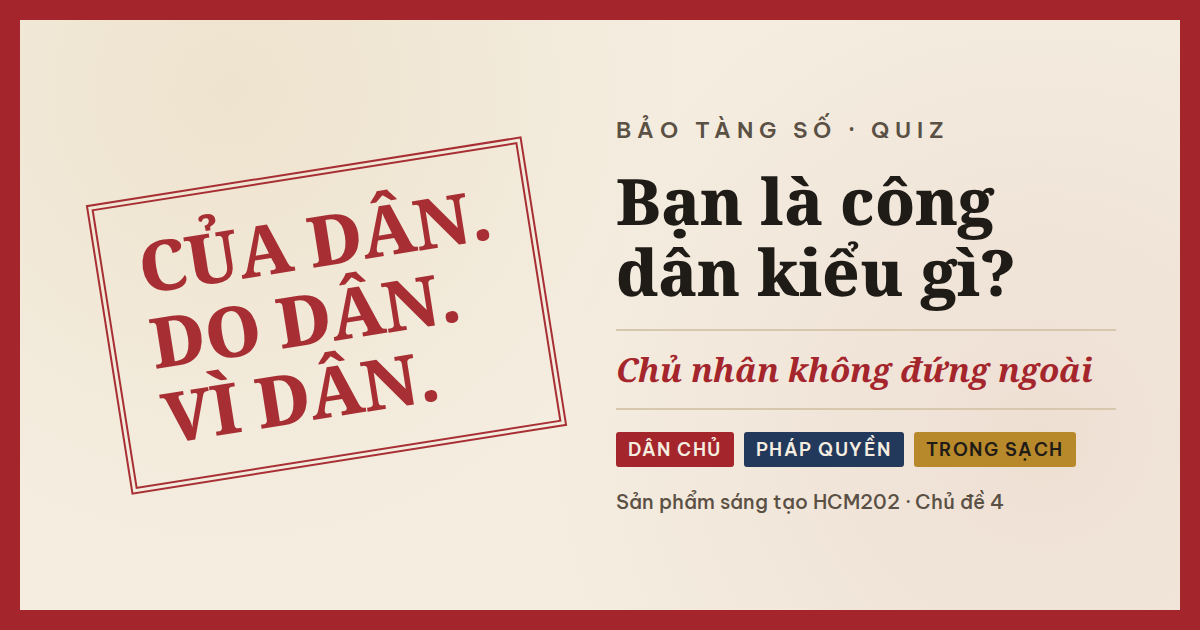
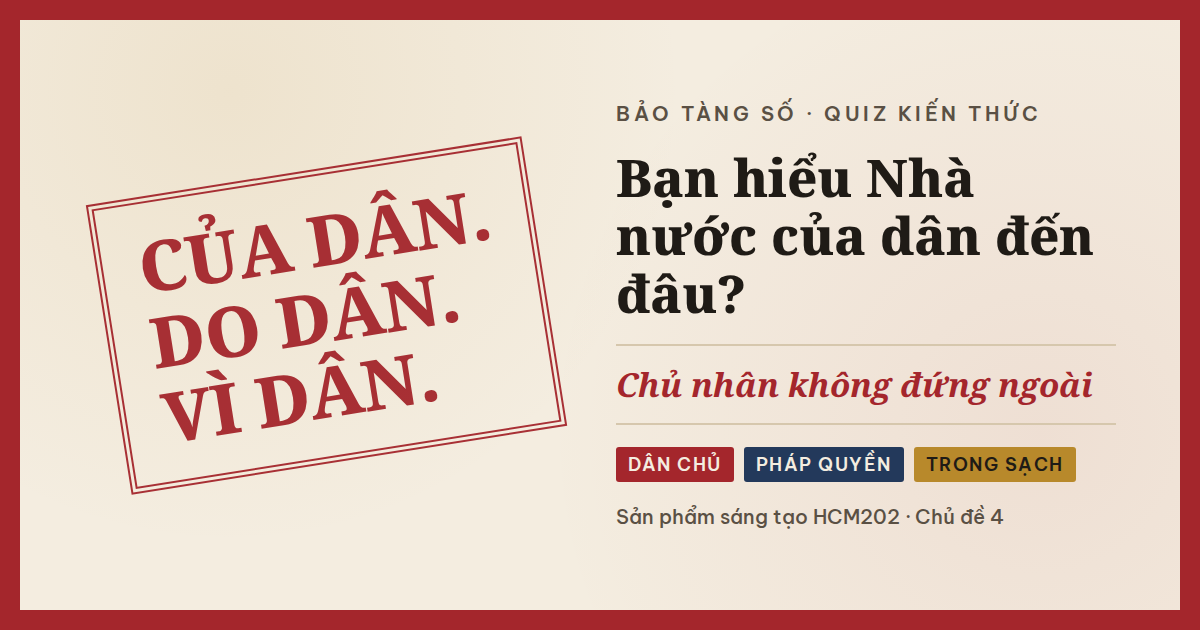
Cập nhật mô tả và ảnh chia sẻ cho quiz kiến thức
Claude-Session: https://claude.ai/code/session_01PMQa1LY6rFj1vgqhuZFxqY

Changed region(s): [[0.4933, 0.1508, 0.925, 0.8444]]

diff --git a/San-pham-sang-tao/web/index.html b/San-pham-sang-tao/web/index.html
@@ -10,12 +10,12 @@
     <meta name="theme-color" content="#1C1A17" media="(prefers-color-scheme: dark)" />
     <meta property="og:type" content="website" />
     <meta property="og:title" content="Của dân · Do dân · Vì dân — Bảo tàng số" />
-    <meta property="og:description" content="Chủ nhân không đứng ngoài. Bảo tàng số và quiz &quot;Bạn là công dân kiểu gì?&quot; — Sản phẩm sáng tạo HCM202." />
+    <meta property="og:description" content="Chủ nhân không đứng ngoài. Bảo tàng số và quiz &quot;Bạn hiểu Nhà nước của dân đến đâu?&quot; — Sản phẩm sáng tạo HCM202." />
     <meta property="og:locale" content="vi_VN" />
     <!-- og:url, og:image (URL tuyệt đối = siteUrl + og-image.png) được chèn lúc build từ site.json; bỏ qua khi siteUrl còn TODO hoặc bản offline -->
     <meta name="twitter:card" content="summary_large_image" />
     <meta name="twitter:title" content="Của dân · Do dân · Vì dân — Bảo tàng số" />
-    <meta name="twitter:description" content="Chủ nhân không đứng ngoài. Bảo tàng số và quiz &quot;Bạn là công dân kiểu gì?&quot; — Sản phẩm sáng tạo HCM202." />
+    <meta name="twitter:description" content="Chủ nhân không đứng ngoài. Bảo tàng số và quiz &quot;Bạn hiểu Nhà nước của dân đến đâu?&quot; — Sản phẩm sáng tạo HCM202." />
     <title>Của dân · Do dân · Vì dân — Bảo tàng số</title>
   </head>
   <body>
